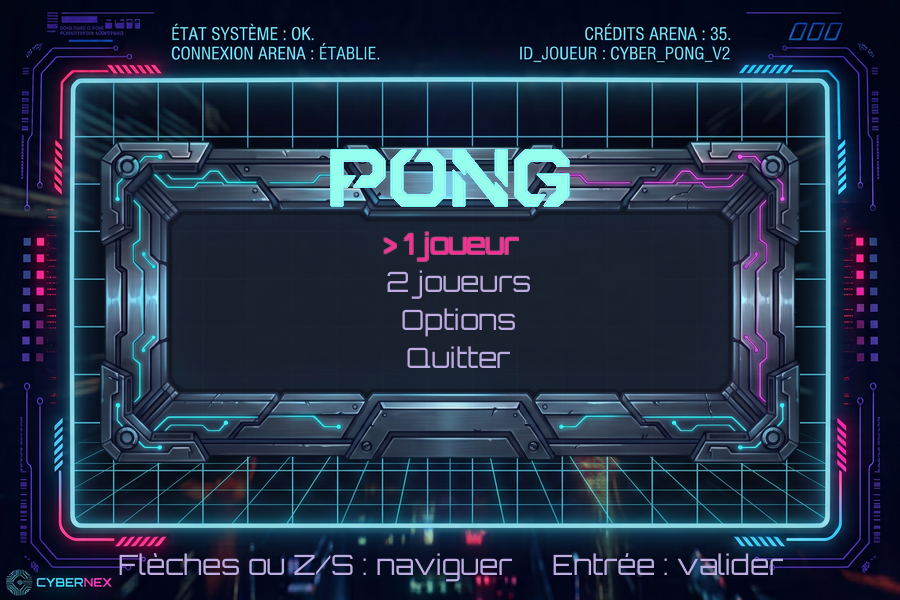
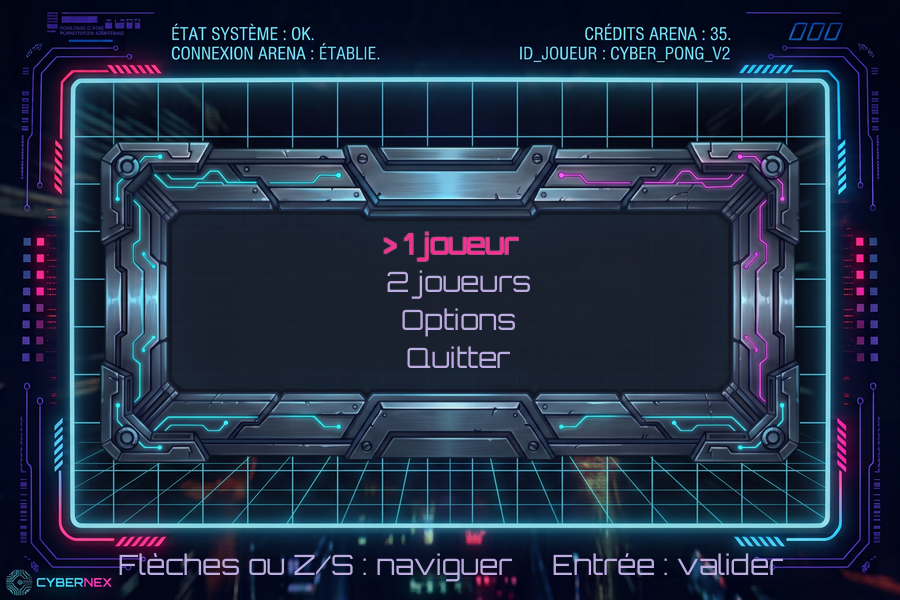
refactor(menu): retire le titre image (asset, source et pipeline)

Changed region(s): [[0.3422, 0.24, 0.6533, 0.36]]

diff --git a/scripts/prepare_assets.py b/scripts/prepare_assets.py
@@ -31,14 +31,6 @@ BACKGROUND_SIZE = (900, 600)
 SCORE_SCREEN_BOX = (0.063, 0.130, 0.936, 0.870)
 SCORE_SCREEN_HEIGHT = 72
 
-# Titre du menu : le fond est un vert sombre (≈ (2, 60, 45)) que le chroma-key
-# habituel ne détecte pas (bleu trop proche du vert). On le repère par sa
-# dominante verte et sa faible luminance.
-DARK_GREEN_DOM = 8
-DARK_GREEN_LUM = 170
-TITLE_WIDTH = 240
-# Le titre traîne une faible opacité sur ses coins : on relève le seuil.
-TITLE_ALPHA_THRESHOLD = 170
 # La balle : sprite au diamètre exact du cercle de collision (2 × BALL_RADIUS).
 BALL_SPRITE_SIZE = 16
 
@@ -71,26 +63,6 @@ def remove_green_background(image, erode=3):
 
     out = image.convert("RGBA")
     out.putalpha(keep)
-    return out
-
-
-def remove_dark_green_background(image):
-    """Rend transparent un fond vert sombre (image de titre).
-
-    Le fond est un vert foncé (≈ (2, 60, 45)) : le vert domine, mais le bleu
-    reste proche, donc `remove_green_background` le laisse passer. On le
-    détecte par sa dominante verte ET sa faible luminance, ce qui retire aussi
-    le halo vert autour des lettres.
-    """
-    rgb = image.convert("RGB")
-    r, g, b = rgb.split()
-    dominante = ImageChops.subtract(g, ImageChops.lighter(r, b)).point(
-        lambda v: 255 if v >= DARK_GREEN_DOM else 0)
-    sombre = rgb.convert("L").point(lambda v: 255 if v < DARK_GREEN_LUM else 0)
-    fond = ImageChops.multiply(dominante, sombre)
-
-    out = image.convert("RGBA")
-    out.putalpha(ImageChops.invert(fond))
     return out
 
 
@@ -182,21 +154,16 @@ def build_background(source, dest):
     image.save(dest)
 
 
-def build_sprite(source, dest, *, height=None, width=None, max_size=None,
-                 keyer=remove_green_background, alpha_threshold=16):
-    """Sprite transparent : détourage + recadrage + redimensionnement.
-
-    `keyer` : fonction de détourage (fond vert vif par défaut, vert sombre
-    pour les images de titre). `alpha_threshold` : seuil de `clean_alpha`.
-    """
-    image = crop_to_content(keyer(_load(source)))
+def build_sprite(source, dest, *, height=None, width=None, max_size=None):
+    """Sprite transparent : détourage + recadrage + redimensionnement."""
+    image = crop_to_content(remove_green_background(_load(source)))
     if height is not None:
         image = fit_height(image, height)
     elif width is not None:
         image = fit_width(image, width)
     elif max_size is not None:
         image = fit_max(image, max_size)
-    image = clean_alpha(image, alpha_threshold)
+    image = clean_alpha(image)
     image = despill_green(image)
     image.save(dest)
 
@@ -263,14 +230,11 @@ def main():
     build_sprite("raquette_droite.jpeg", OUT / "paddle_right.png", height=80)
     build_sprite("balle.jpeg", OUT / "ball.png", max_size=BALL_SPRITE_SIZE)
     build_sprite("rectangle_menu_03.jpeg", OUT / "menu_frame.png", width=880)
-    build_sprite("tittre_02.jpeg", OUT / "title.png", width=TITLE_WIDTH,
-                 keyer=remove_dark_green_background,
-                 alpha_threshold=TITLE_ALPHA_THRESHOLD)
     build_region("rectangle_menu_01.jpeg", OUT / "score_screen.png",
                  SCORE_SCREEN_BOX, height=SCORE_SCREEN_HEIGHT)
 
     for name in ("background", "menu", "start_screen", "paddle_left", "paddle_right",
-                 "ball", "menu_frame", "title", "score_screen"):
+                 "ball", "menu_frame", "score_screen"):
         path = OUT / f"{name}.png"
         with Image.open(path) as im:
             print(f"  {path.relative_to(ROOT)}  {im.size}  {im.mode}")

diff --git a/tests/test_assets.py b/tests/test_assets.py
@@ -17,14 +17,12 @@ def test_asset_store_loads_expected_sizes():
     assert max(store.ball.get_size()) <= 24
     assert store.menu_frame.get_width() <= 900
     assert store.score_screen.get_height() == 72
-    assert store.title.get_width() == 240
     assert store.start_screen.get_size() == (900, 600)
 
 def test_sprites_have_transparent_corners():
     store = AssetStore()
 
-    sprites = (store.paddle_left, store.paddle_right, store.ball,
-               store.menu_frame, store.title)
+    sprites = (store.paddle_left, store.paddle_right, store.ball, store.menu_frame)
     for sprite in sprites:
         width, height = sprite.get_size()
         for corner in ((0, 0), (width - 1, 0), (0, height - 1), (width - 1, height - 1)):
@@ -39,7 +37,7 @@ def test_sprites_have_no_green_fringe():
     """Le chroma-key ne doit pas laisser de liseré vert sur les bords."""
     store = AssetStore()
 
-    for sprite in (store.paddle_left, store.paddle_right, store.ball, store.title):
+    for sprite in (store.paddle_left, store.paddle_right, store.ball):
         width, height = sprite.get_size()
         offending = []
         for y in range(height):

diff --git a/tests/test_prepare_assets.py b/tests/test_prepare_assets.py
@@ -14,7 +14,6 @@ from scripts.prepare_assets import (  # noqa: E402
     despill_green,
     fit_width,
     is_green_background,
-    remove_dark_green_background,
     remove_green_background,
 )
 
@@ -95,17 +94,6 @@ def test_despill_green_clears_fringe_only():
 
     assert out.getpixel((0, 0))[:3] == (100, 120, 120)
     assert out.getpixel((1, 0))[:3] == (100, 200, 120)
-
-
-def test_remove_dark_green_background_keys_dark_green():
-    image = Image.new("RGBA", (2, 1))
-    image.putpixel((0, 0), (2, 60, 45, 255))      # vert sombre → transparent
-    image.putpixel((1, 0), (150, 255, 238, 255))  # lettre claire → conservée
-
-    out = remove_dark_green_background(image)
-
-    assert out.getpixel((0, 0))[3] == 0
-    assert out.getpixel((1, 0))[3] == 255
 
 
 def test_build_background_keeps_aspect_ratio(tmp_path, monkeypatch):

diff --git a/pong/scenes/menu.py b/pong/scenes/menu.py
@@ -41,11 +41,6 @@ class MenuScene(Scene):
         frame_rect = ui.panel_rect(self.frame)
         surface.blit(self.frame, frame_rect)
 
-        # Titre (image), dans la bande haute du cadre.
-        title = self.app.assets.title
-        surface.blit(title, title.get_rect(center=(
-            settings.WINDOW_WIDTH // 2, frame_rect.top + 8 + title.get_height() // 2)))
-
         ui.draw_choices(surface, self.app, frame_rect,
                         [label for label, _, _ in self.options], self.index)
         ui.draw_hint(surface, self.app,

diff --git a/pong/resources.py b/pong/resources.py
@@ -42,7 +42,6 @@ class AssetStore:
         self.start_screen = self._load_opaque(settings.ASSET_START)
         self.menu_background = self._load_opaque(settings.ASSET_MENU)
         self.menu_frame = self._load_sprite(settings.ASSET_MENU_FRAME)
-        self.title = self._load_sprite(settings.ASSET_TITLE)
         self.score_screen = self._load_sprite(settings.ASSET_SCORE_SCREEN)
         self.paddle_left = self._load_sprite(settings.ASSET_PADDLE_LEFT)
         self.paddle_right = self._load_sprite(settings.ASSET_PADDLE_RIGHT)

diff --git a/tests/test_app_smoke.py b/tests/test_app_smoke.py
@@ -15,7 +15,7 @@ def _key(code):
 
 def test_full_scene_flow():
     app = App(sound_enabled=False)
-    # Au lancement : l'écran-titre « PRESS START ».
+    # Au lancement : l'écran-titre animé.
     assert isinstance(app.scene, StartScene)
     app.scene.handle_event(_key(pygame.K_RETURN))
     assert isinstance(app.scene, MenuScene)

diff --git a/pong/settings.py b/pong/settings.py
@@ -96,7 +96,6 @@ ASSET_START_VIDEO = "start_video"
 ASSET_START_AUDIO = "start_audio.ogg"
 START_VIDEO_FPS = 15
 ASSET_MENU_FRAME = "menu_frame.png"
-ASSET_TITLE = "title.png"
 ASSET_SCORE_SCREEN = "score_screen.png"
 ASSET_PADDLE_LEFT = "paddle_left.png"
 ASSET_PADDLE_RIGHT = "paddle_right.png"

diff --git a/docs/cours/00-introduction.md b/docs/cours/00-introduction.md
@@ -1,4 +1,4 @@
-# Introduction et architecture
+# 00. Introduction et architecture
 
 ---
 
